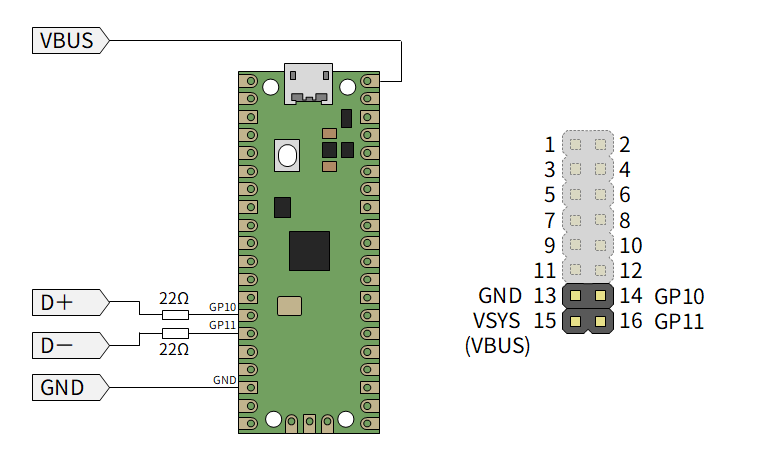
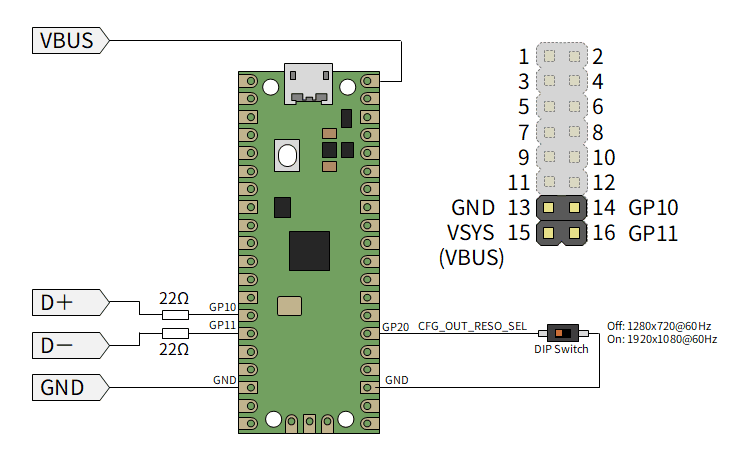
docs: update links and headers in documentation for clarity

diff --git a/docs/index.html b/docs/index.html
@@ -87,7 +87,7 @@
       <li>Supported Pixel Formats: Monochrome, RGB111, RGB332, RGB444, RGB565, RGB666</li>
     </ul>
 
-    <h2 id="lcdtap-pico2-universal">LcdTap-Pico2 Universal</h2>
+    <h2 id="lcdtap_pico2_universal">LcdTap-Pico2 Universal</h2>
 
     <p>
       LcdTap-Pico2 Universal is an LcdTap application for Raspberry Pi Pico 2.
@@ -245,7 +245,7 @@
       See <a href="https://github.com/shapoco/lcdtap/blob/main/example/m5tab5">example/m5tab5</a>.
     </p>
 
-    <h2>Recommended Header Pinout / Cable Color</h2>
+    <h2 id="header_pinout">Recommended Header Pinout / Cable Color</h2>
 
     <p>
       <img src="./image/header-and-cable.jpg" class="large-img" />

diff --git a/docs/pico2-universal-alt-output.html b/docs/pico2-universal-alt-output.html
@@ -40,6 +40,10 @@
 </head>
 
 <body>
+  <header>
+    <a href="/"><img src="/image/logo.png" class="logo" />LcdTap</a> |
+    LcdTap-Pico2 Universal Alternative Output Interface
+  </header>
   <main>
     <h1>
       LcdTap-Pico2 Universal: Alternative Output Interface

diff --git a/example/pico2_universal/README.md b/example/pico2_universal/README.md
@@ -18,7 +18,7 @@ A universal LCD-to-DVI converter example for Raspberry Pi Pico 2. With an OSD (O
 ## Schematics
 
 - Keep the input bus as short as possible and ensure all cables are the same length.
-- See also: [Recommended Header Pinout](../../README.md#recommended-header-pinout)
+- See also: [Recommended Header Pinout](https://shapoco.github.io/lcdtap/#header_pinout)
 
 ![](./image/schematics.png)
 
